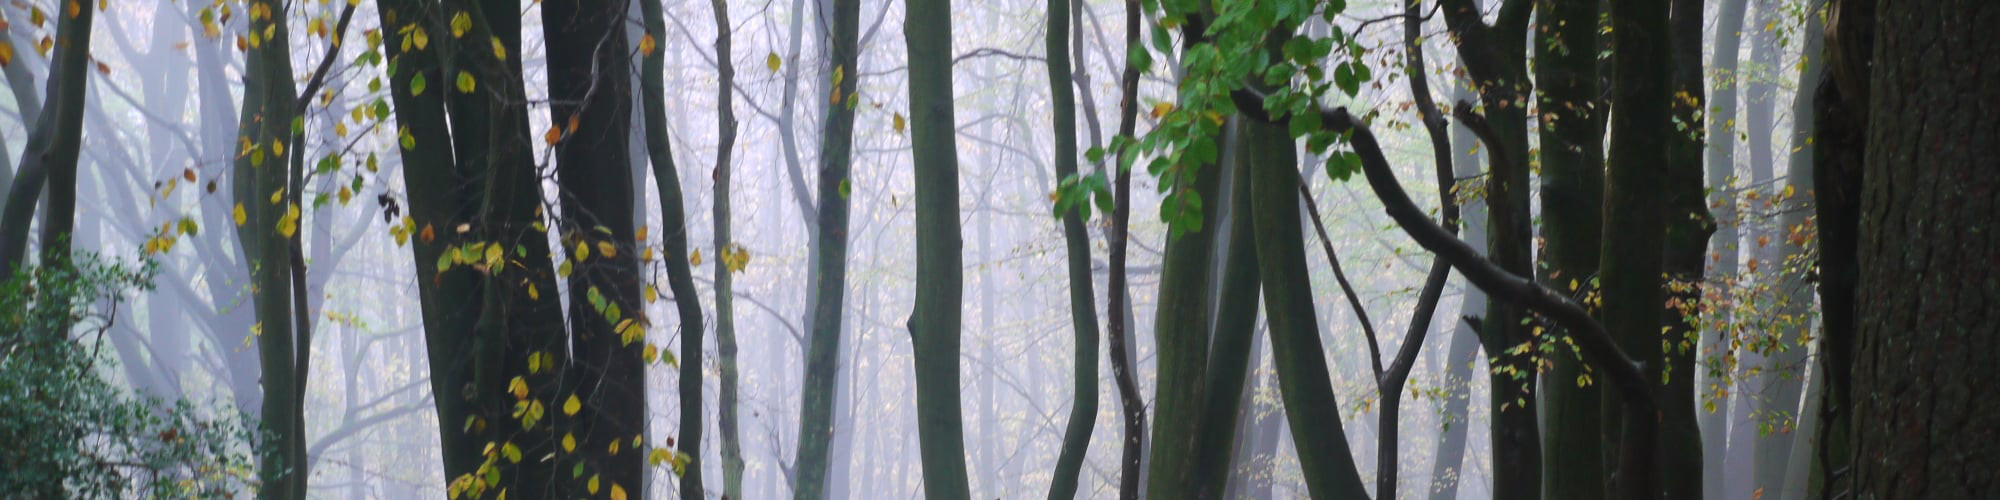
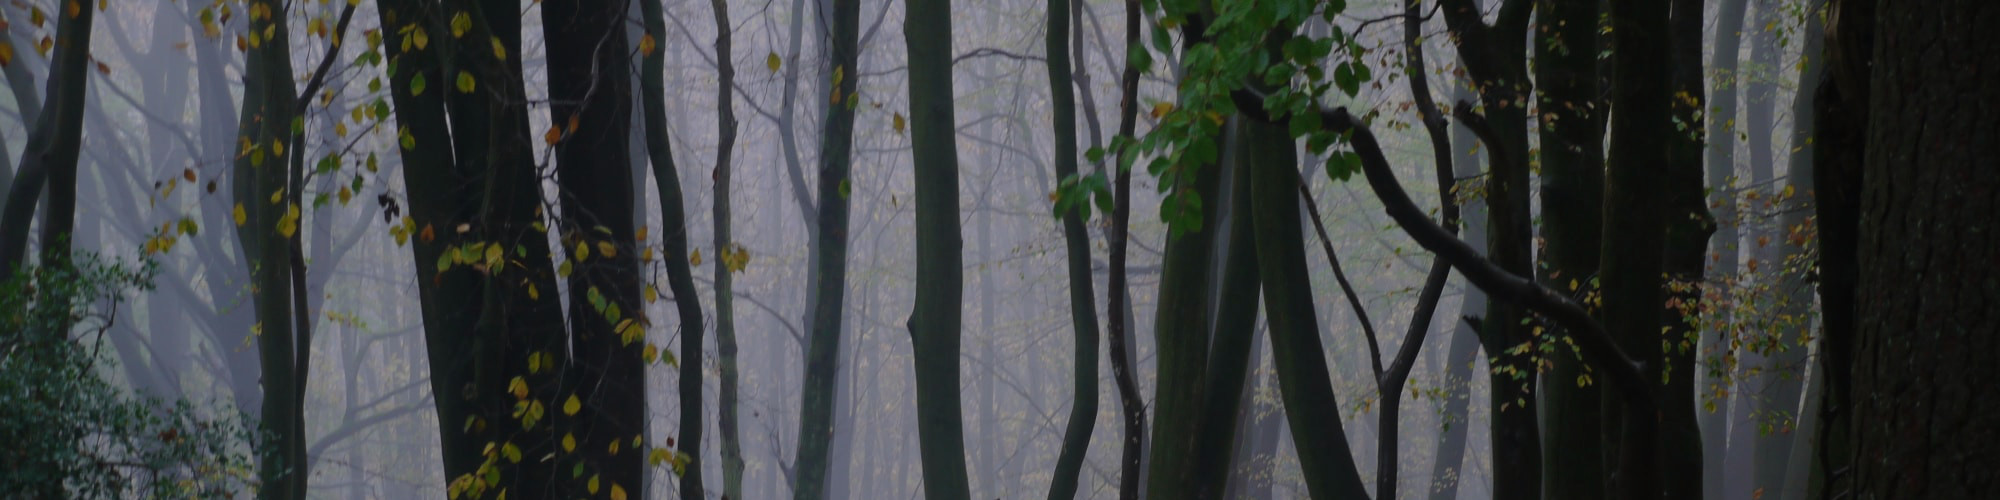
Layout updates

diff --git a/assets/css/style.scss b/assets/css/style.scss
@@ -4,6 +4,6 @@
 @import "{{ site.theme }}";
 
 .page-header {
-  background-image: url('/images/background.jpg');
+  background-image: url('/images/bg.jpg');
   padding: 2rem;
 }
